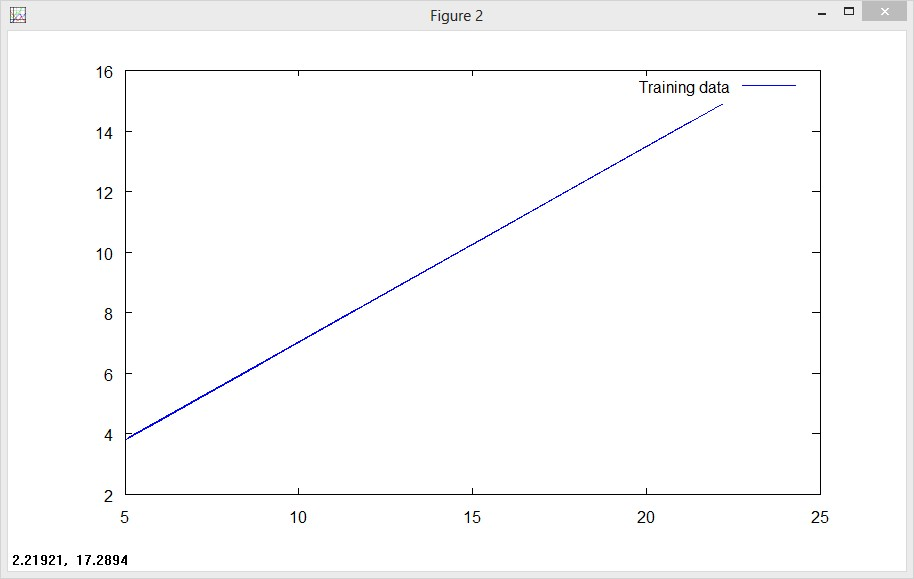
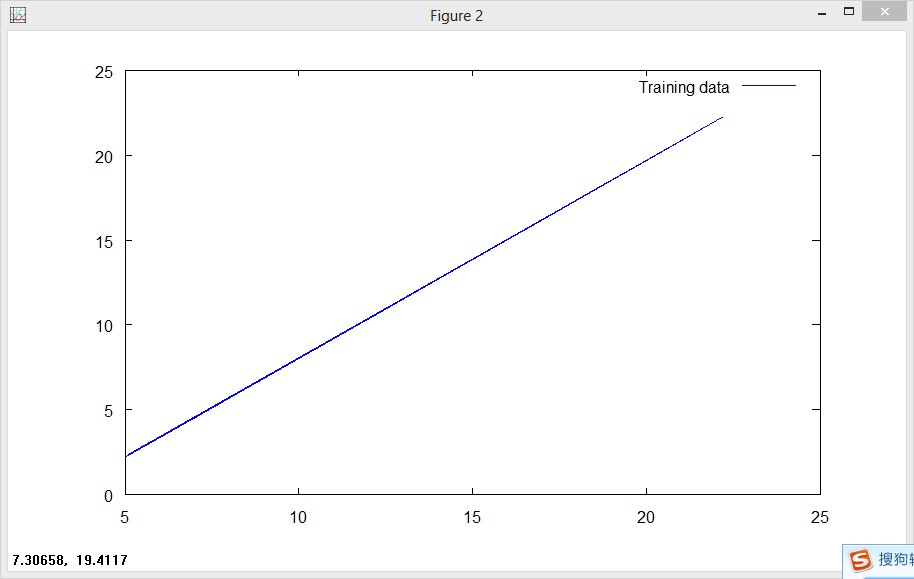
update

diff --git a/week1/mlclass-ex1/gradientDescent.m b/week1/mlclass-ex1/gradientDescent.m
@@ -17,8 +17,9 @@ for iter = 1:num_iters
     %       of the cost function (computeCost) and gradient here.
     %
     H = theta(1) + theta(2) * X(:, 2) - y;
-    theta(1) = theta(1) - alpha / m *sum(H.*X(:,1));
-    theta(2) = theta(1) - alpha / m *sum(H.*X(:,2));
+
+    theta(1) = theta(1) - (alpha / m) *sum(H);
+    theta(2) = theta(2) - (alpha / m) *sum(H.*X(:,2));
     
 
 
